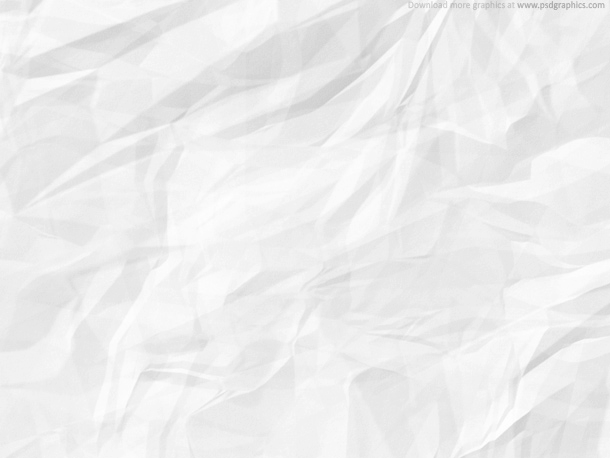
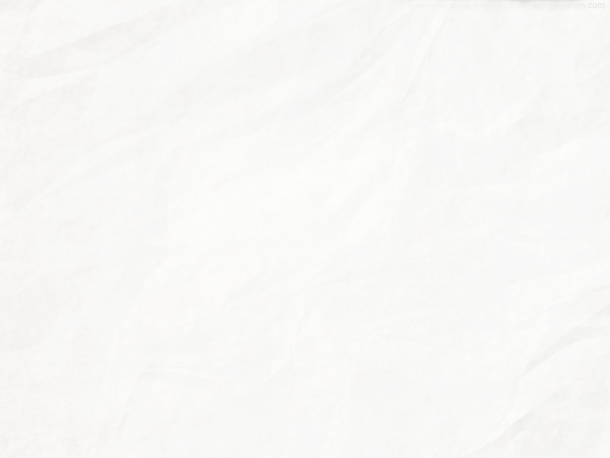
playing with background and adjusting messaging

diff --git a/app/assets/stylesheets/wedding.css.scss b/app/assets/stylesheets/wedding.css.scss
@@ -198,7 +198,8 @@ p {
 }
 
 .box {
-  background: url("WatercolorTutorial_PaperTexture.png") 0 0 repeat;
+  background: url("crumpled-paper.png") 0 0 repeat repeat;
+//  background: url("WatercolorTutorial_PaperTexture.png") 0 0 repeat;
 //  background-color:rgba(255,255,255,0.95);
   position: relative;
   top: 10px;
@@ -226,7 +227,7 @@ p {
 .articleTitle {
   margin-bottom: 2%;
   font-family: 'Wellfleet', cursive;
-  font-size: 350%;
+  font-size: 300%;
   line-height: 1em;
 }
 
@@ -266,9 +267,9 @@ form {
 
 .deselected { 
 	@include button;
-	background: #cccccc;
-  border: 2px solid #cccccc;
-	background-color: #cccccc;
+	background: #cdcdcd;
+  border: 2px solid #cdcdcd;
+	background-color: #cdcdcd;
 }
 
 .deselected:hover, .deselected:visited, .deselected:focus {
@@ -488,6 +489,7 @@ form {
   
   #directions {
     height: 1200px;
+	  background: url("redwood-forest-bg.jpg") repeat center center fixed;  
   }
   
   #registry {

diff --git a/app/helpers/wedding_helper.rb b/app/helpers/wedding_helper.rb
@@ -56,7 +56,7 @@ module WeddingHelper
     if response.coming == true || response.coming == false
       "Make sure to click the big blue button to save any changes."
     else
-      "To send us your RSVP, fill out the form below and click the big blue button."
+      "RSVP for #{@guest.name} using form below, then click the big blue button."
     end
   end
   
